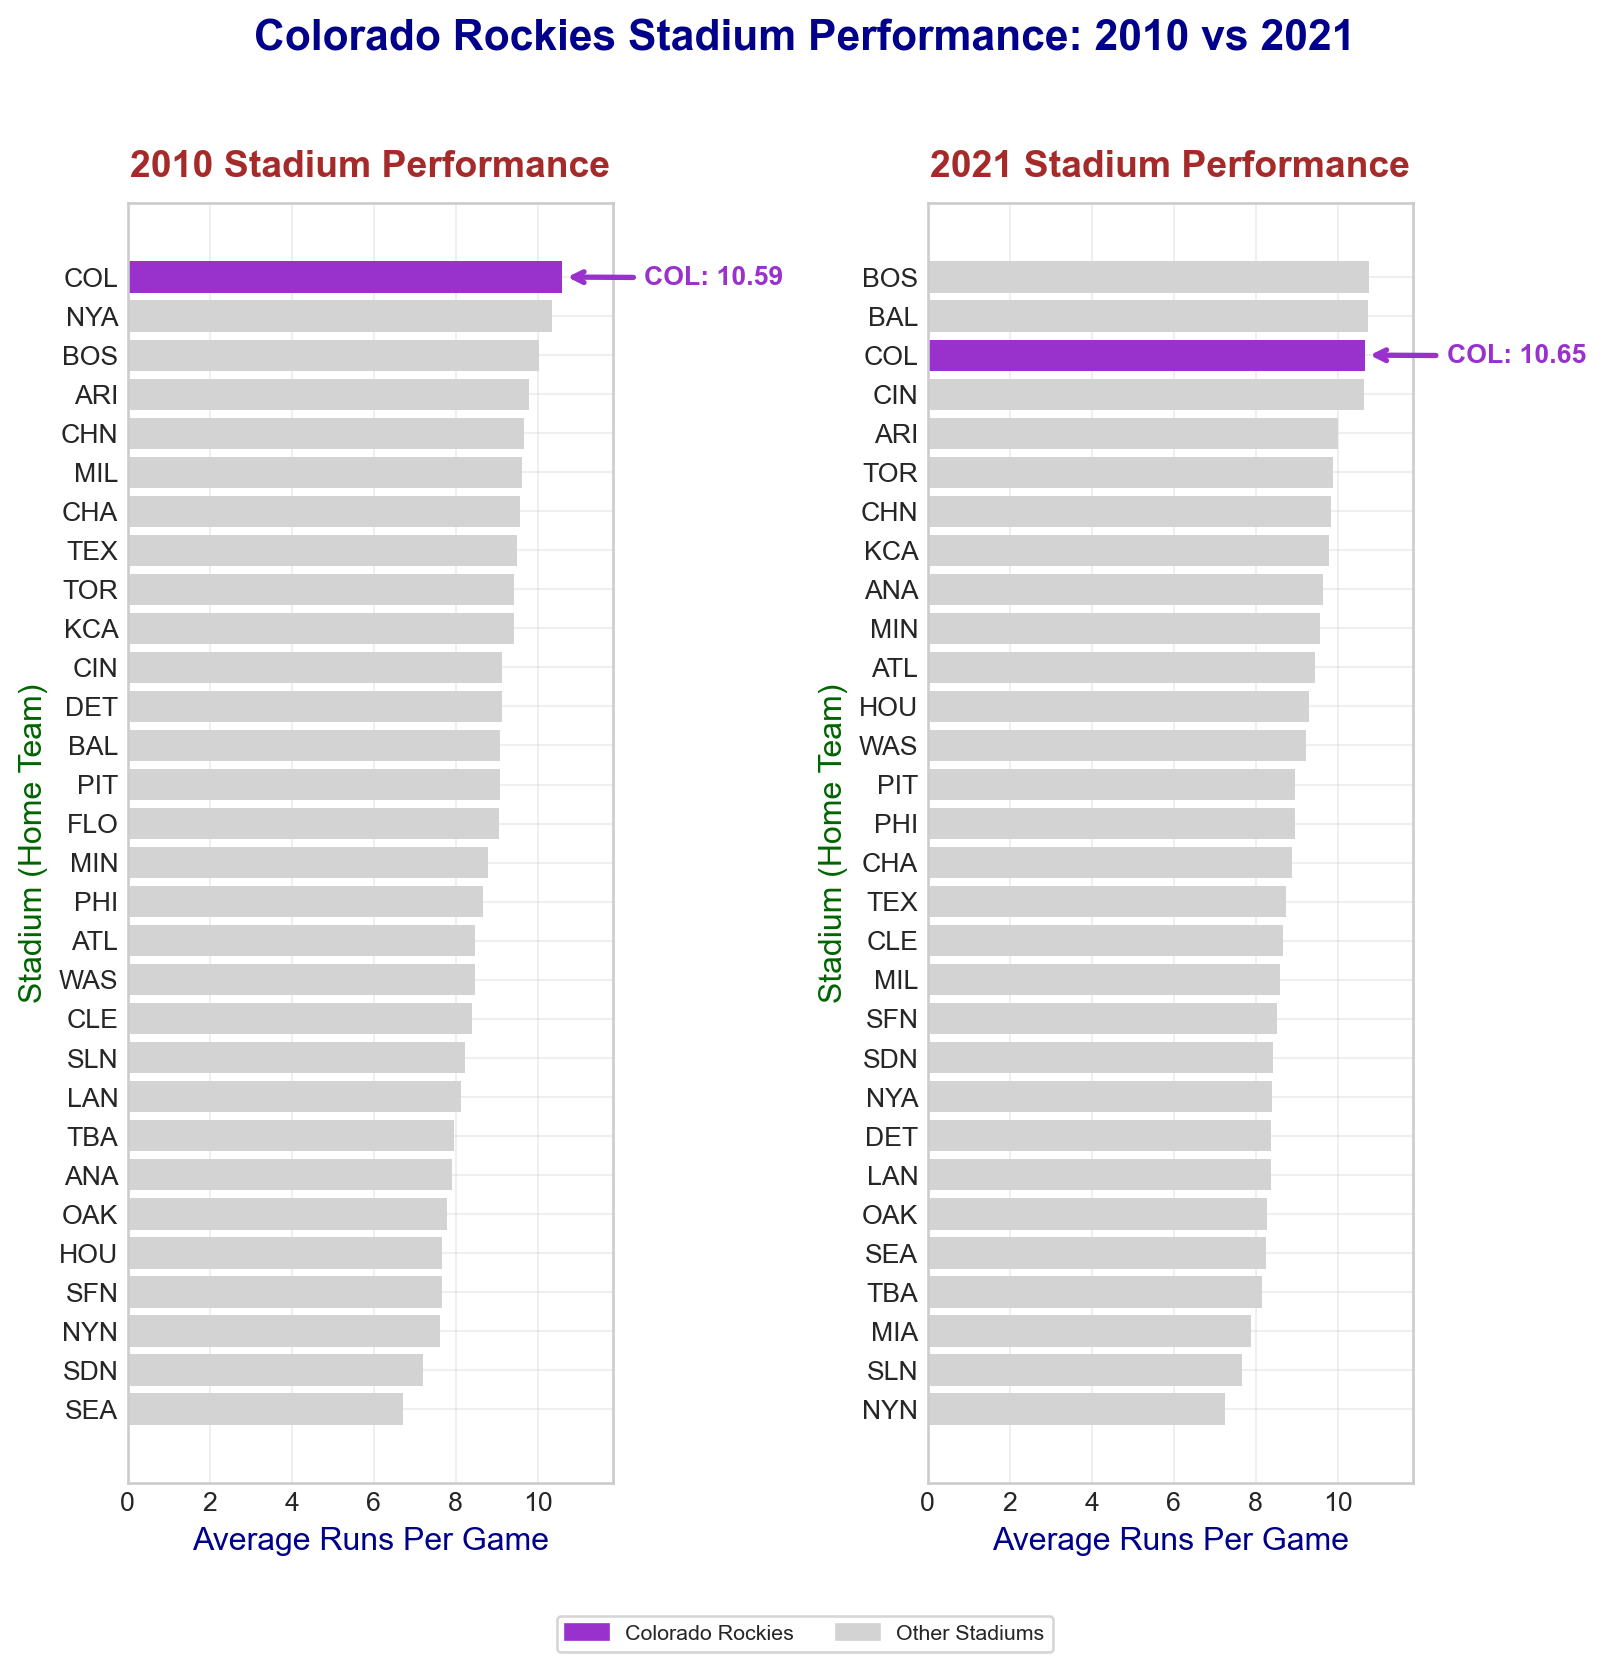
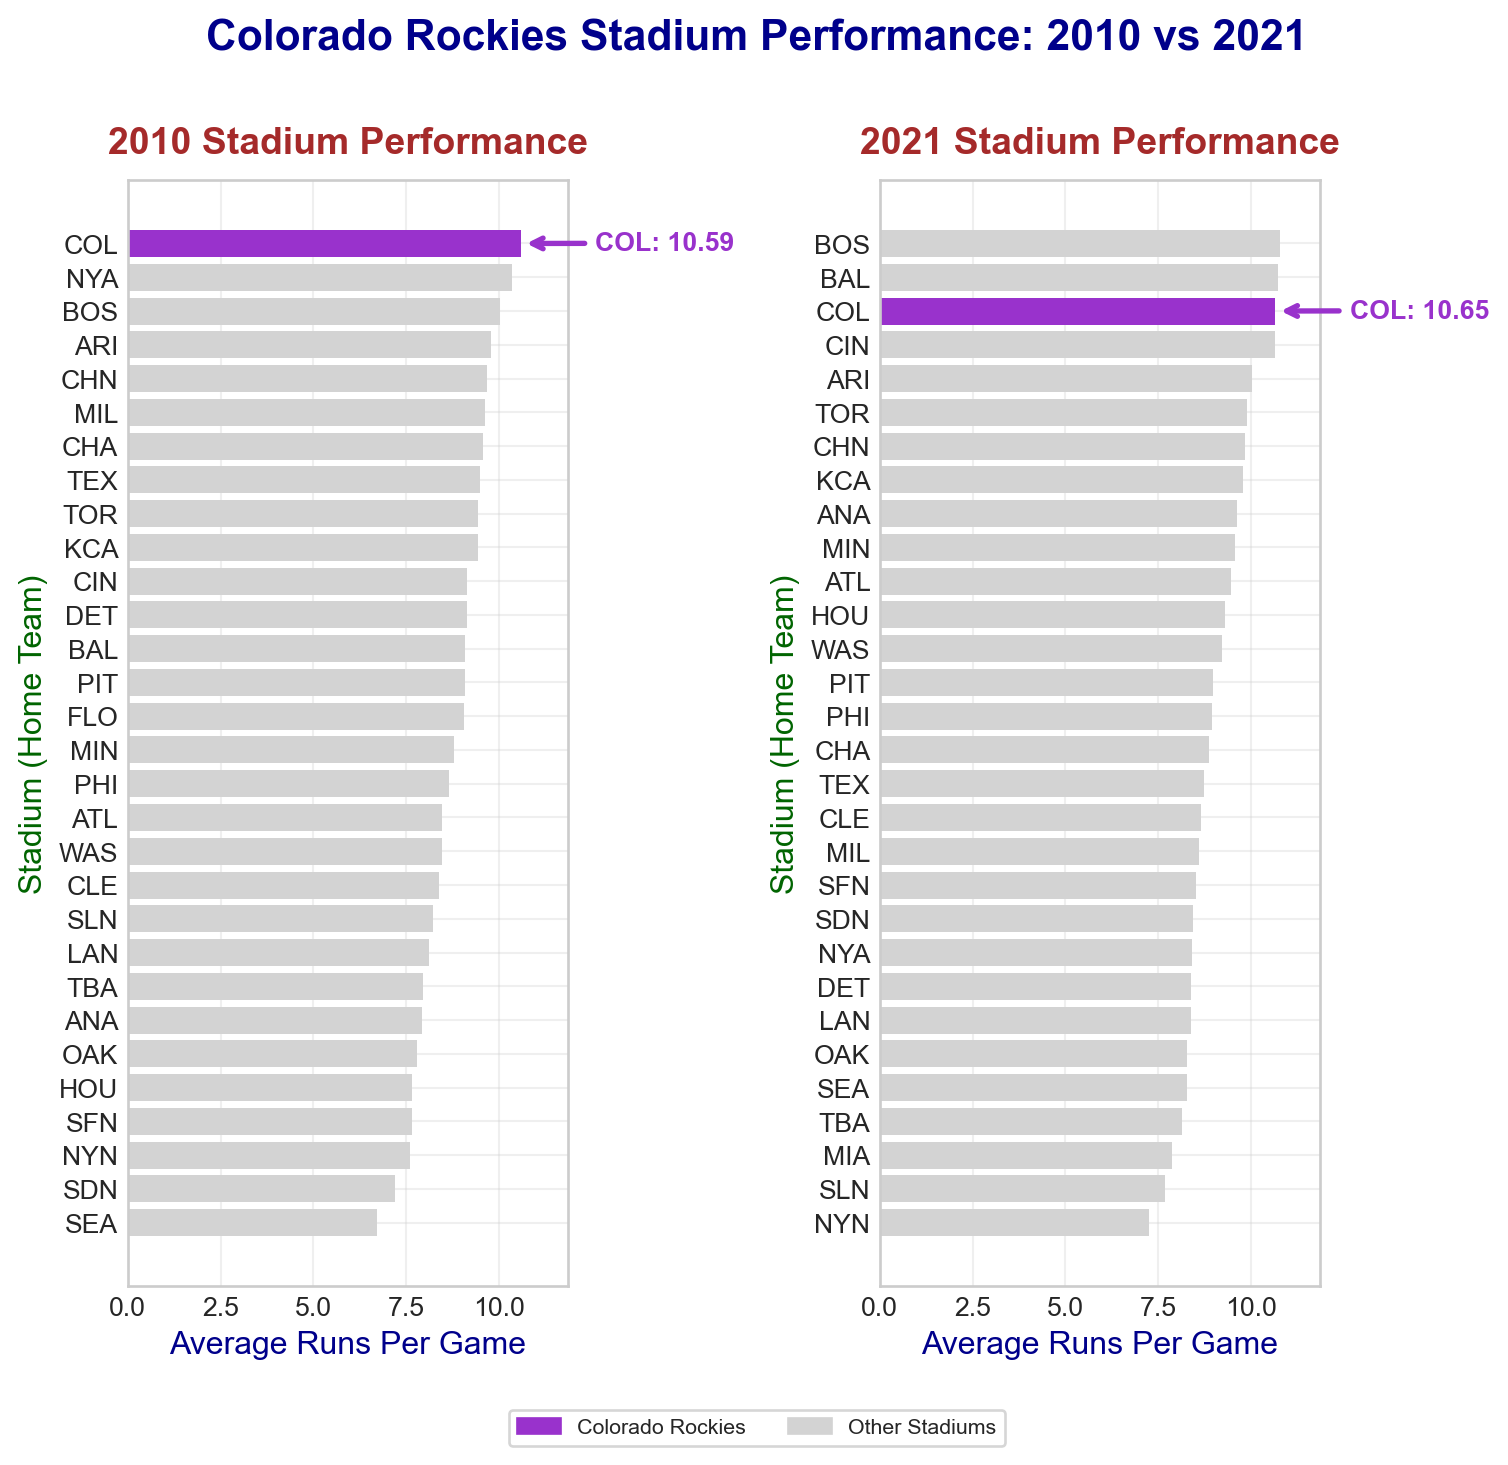
data viz challenge graph changed

Changed region(s): [[0.3428, 0.0614, 0.9973, 1.0], [0.0, 0.0614, 0.4987, 0.9522], [0.1247, 0.0, 0.8727, 0.0307]]

diff --git a/index.html b/index.html
@@ -302,7 +302,7 @@ First few rows of 2010 data:
 </div>
 </div>
 <p><strong>Answer:</strong></p>
-<div id="a25e32c5" class="cell" data-execution_count="3">
+<div id="d979e406" class="cell" data-execution_count="3">
 <div class="code-copy-outer-scaffold"><div class="sourceCode cell-code" id="cb5"><pre class="sourceCode python code-with-copy"><code class="sourceCode python"><span id="cb5-1"><a href="#cb5-1" aria-hidden="true" tabindex="-1"></a><span class="bu">print</span>(<span class="ss">f"</span><span class="ch">\n</span><span class="ss">Total games in 2010: </span><span class="sc">{</span><span class="bu">len</span>(df2010)<span class="sc">}</span><span class="ss">"</span>)</span>
 <span id="cb5-2"><a href="#cb5-2" aria-hidden="true" tabindex="-1"></a><span class="bu">print</span>(<span class="ss">f"Total games in 2021: </span><span class="sc">{</span><span class="bu">len</span>(df2021)<span class="sc">}</span><span class="ss">"</span>)</span>
 <span id="cb5-3"><a href="#cb5-3" aria-hidden="true" tabindex="-1"></a><span class="bu">print</span>(<span class="ss">f"Total games across both seasons: </span><span class="sc">{</span><span class="bu">len</span>(df2010) <span class="op">+</span> <span class="bu">len</span>(df2021)<span class="sc">}</span><span class="ss">"</span>)</span>
@@ -333,7 +333,7 @@ First few rows of 2010 data:
 <ul>
 <li>There are total of 4859 games from 2010 and 2021 seasons. 2430 games in 2010 and 2429 games in 2021.</li>
 </ul>
-<div id="c04fdaed" class="cell" data-execution_count="4">
+<div id="aa6cca49" class="cell" data-execution_count="4">
 <div class="code-copy-outer-scaffold"><div class="sourceCode cell-code" id="cb7"><pre class="sourceCode python code-with-copy"><code class="sourceCode python"><span id="cb7-1"><a href="#cb7-1" aria-hidden="true" tabindex="-1"></a>home_run_2010 <span class="op">=</span> df2010.groupby(<span class="st">'home'</span>).size().sort_values(ascending<span class="op">=</span><span class="va">False</span>)</span>
 <span id="cb7-2"><a href="#cb7-2" aria-hidden="true" tabindex="-1"></a><span class="bu">print</span>(home_run_2010.head(<span class="dv">3</span>))</span>
 <span id="cb7-3"><a href="#cb7-3" aria-hidden="true" tabindex="-1"></a></span>
@@ -442,7 +442,7 @@ dtype: int64</code></pre>
 <h2 class="anchored" data-anchor-id="stage-4-formatting-for-your-audience">Stage 4: Formatting for Your Audience</h2>
 <p><strong>Mental Model:</strong> Polish your visualization for professional presentation.</p>
 <p>Let’s create a publication-ready visualization:</p>
-<div id="60f3b137" class="cell" data-execution_count="6">
+<div id="5abede68" class="cell" data-execution_count="6">
 <div class="code-copy-outer-scaffold"><div class="sourceCode cell-code" id="cb10"><pre class="sourceCode python code-with-copy"><code class="sourceCode python"><span id="cb10-1"><a href="#cb10-1" aria-hidden="true" tabindex="-1"></a><span class="co"># Stage 4: Formatting for Your Audience</span></span>
 <span id="cb10-2"><a href="#cb10-2" aria-hidden="true" tabindex="-1"></a><span class="co"># Create a professional, publication-ready visualization</span></span>
 <span id="cb10-3"><a href="#cb10-3" aria-hidden="true" tabindex="-1"></a></span>
@@ -538,7 +538,7 @@ Colorado is 20.8% above league average</code></pre>
 <li>The annotation can be fixed by moving it to the above for xy and xytext parameters of the annotation. As shown in the code above I have added 19.8 to the y-axis index to move the annotation above the bar.</li>
 </ul>
 <p>** Fixing the Annotation Placement:** - The annotation can be fixed by moving it to the above for xy and xytext parameters of the annotation. As shown in the code below I have added 19.8 to the y-axis index to move the annotation above the bar.</p>
-<div id="97f01980" class="cell" data-execution_count="7">
+<div id="27cb341c" class="cell" data-execution_count="7">
 <div class="code-copy-outer-scaffold"><div class="sourceCode cell-code" id="cb12"><pre class="sourceCode python code-with-copy"><code class="sourceCode python"><span id="cb12-1"><a href="#cb12-1" aria-hidden="true" tabindex="-1"></a><span class="co"># Fixing the annotation placement</span></span>
 <span id="cb12-2"><a href="#cb12-2" aria-hidden="true" tabindex="-1"></a><span class="co">#| label: stage-4-formatting</span></span>
 <span id="cb12-3"><a href="#cb12-3" aria-hidden="true" tabindex="-1"></a><span class="co">#| echo: true</span></span>
@@ -649,7 +649,7 @@ Colorado is 20.8% above league average</code></pre>
 <span id="cb14-6"><a href="#cb14-6" aria-hidden="true" tabindex="-1"></a>avgDF_2021_sorted <span class="op">=</span> avgDF_2021.sort_values(<span class="st">'totalRuns'</span>, ascending<span class="op">=</span><span class="va">True</span>)</span>
 <span id="cb14-7"><a href="#cb14-7" aria-hidden="true" tabindex="-1"></a></span>
 <span id="cb14-8"><a href="#cb14-8" aria-hidden="true" tabindex="-1"></a><span class="co"># Create figure with two subplots side by side</span></span>
-<span id="cb14-9"><a href="#cb14-9" aria-hidden="true" tabindex="-1"></a>fig, (ax1, ax2) <span class="op">=</span> plt.subplots(<span class="dv">1</span>, <span class="dv">2</span>, figsize<span class="op">=</span>(<span class="fl">8.5</span>, <span class="dv">8</span>))</span>
+<span id="cb14-9"><a href="#cb14-9" aria-hidden="true" tabindex="-1"></a>fig, (ax1, ax2) <span class="op">=</span> plt.subplots(<span class="dv">1</span>, <span class="dv">2</span>, figsize<span class="op">=</span>(<span class="dv">8</span>, <span class="dv">7</span>))</span>
 <span id="cb14-10"><a href="#cb14-10" aria-hidden="true" tabindex="-1"></a></span>
 <span id="cb14-11"><a href="#cb14-11" aria-hidden="true" tabindex="-1"></a><span class="co"># Define colors for highlighting Colorado</span></span>
 <span id="cb14-12"><a href="#cb14-12" aria-hidden="true" tabindex="-1"></a>colorado_colors_2010 <span class="op">=</span> [<span class="st">"darkorchid"</span> <span class="cf">if</span> stadium <span class="op">==</span> <span class="st">"COL"</span> <span class="cf">else</span> <span class="st">"lightgrey"</span> </span>
@@ -733,7 +733,7 @@ Colorado is 20.8% above league average</code></pre>
 <div class="cell-output cell-output-display">
 <div>
 <figure class="figure">
-<p><img src="index_files/figure-html/two-facet-visualization-output-1.png" id="two-facet-visualization" width="803" height="836" class="figure-img"></p>
+<p><img src="index_files/figure-html/two-facet-visualization-output-1.png" id="two-facet-visualization" width="754" height="733" class="figure-img"></p>
 </figure>
 </div>
 </div>
